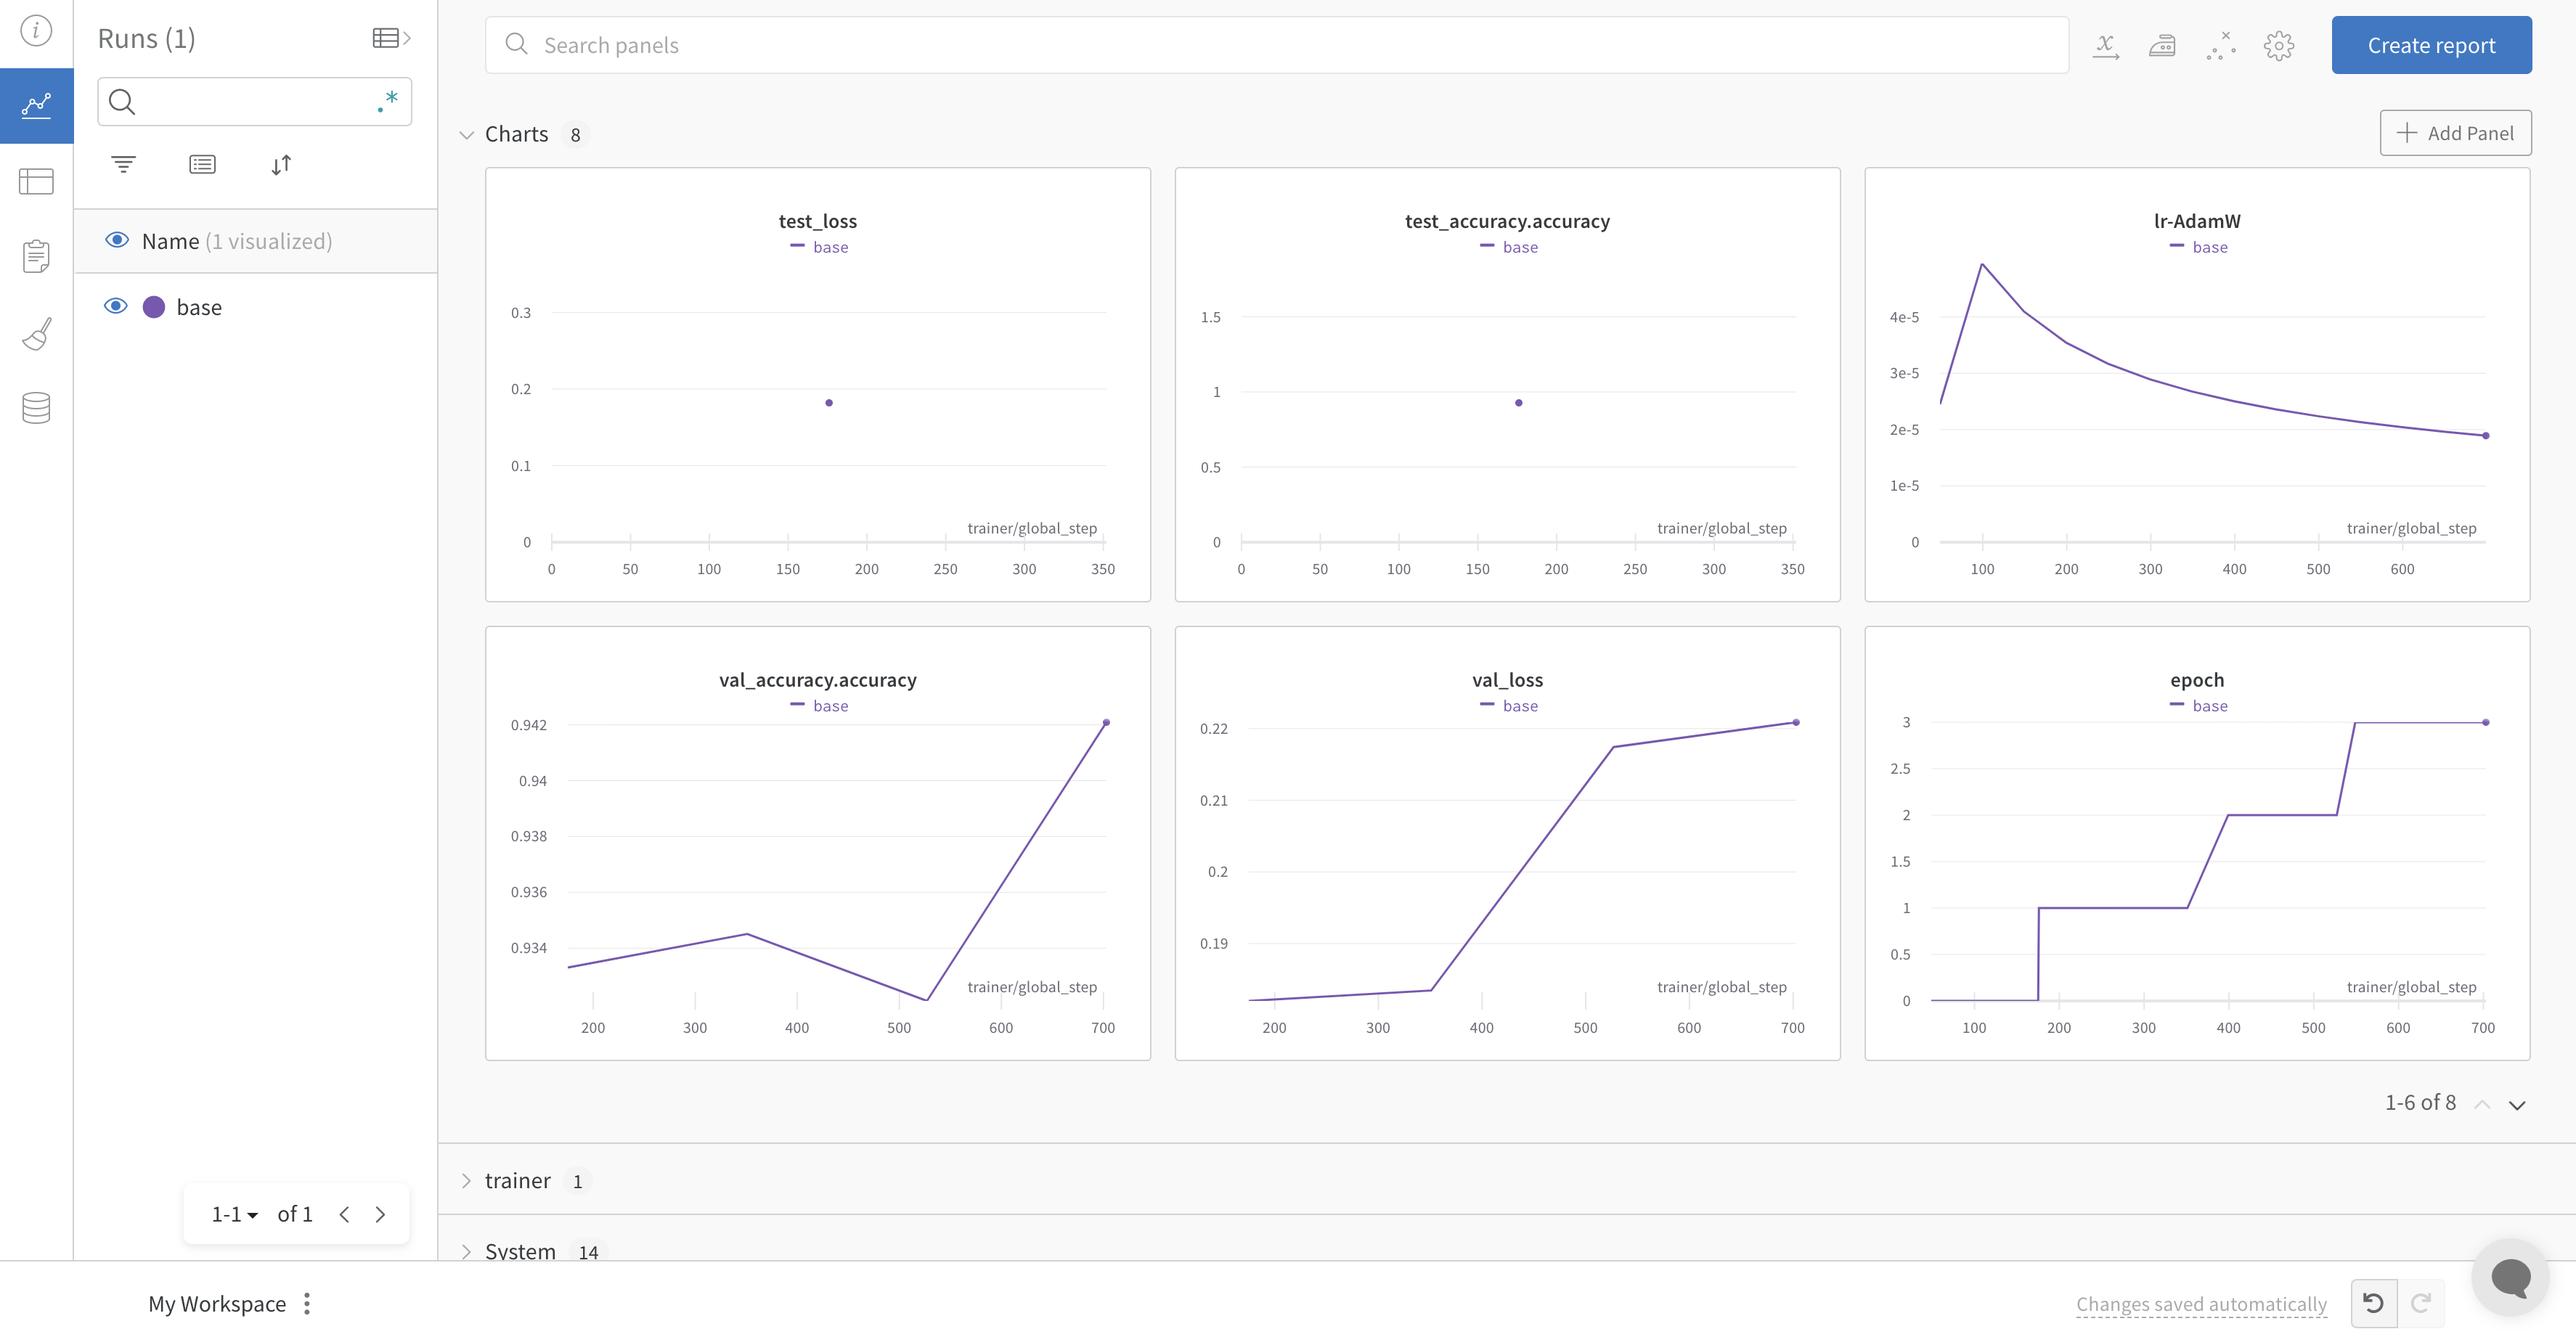
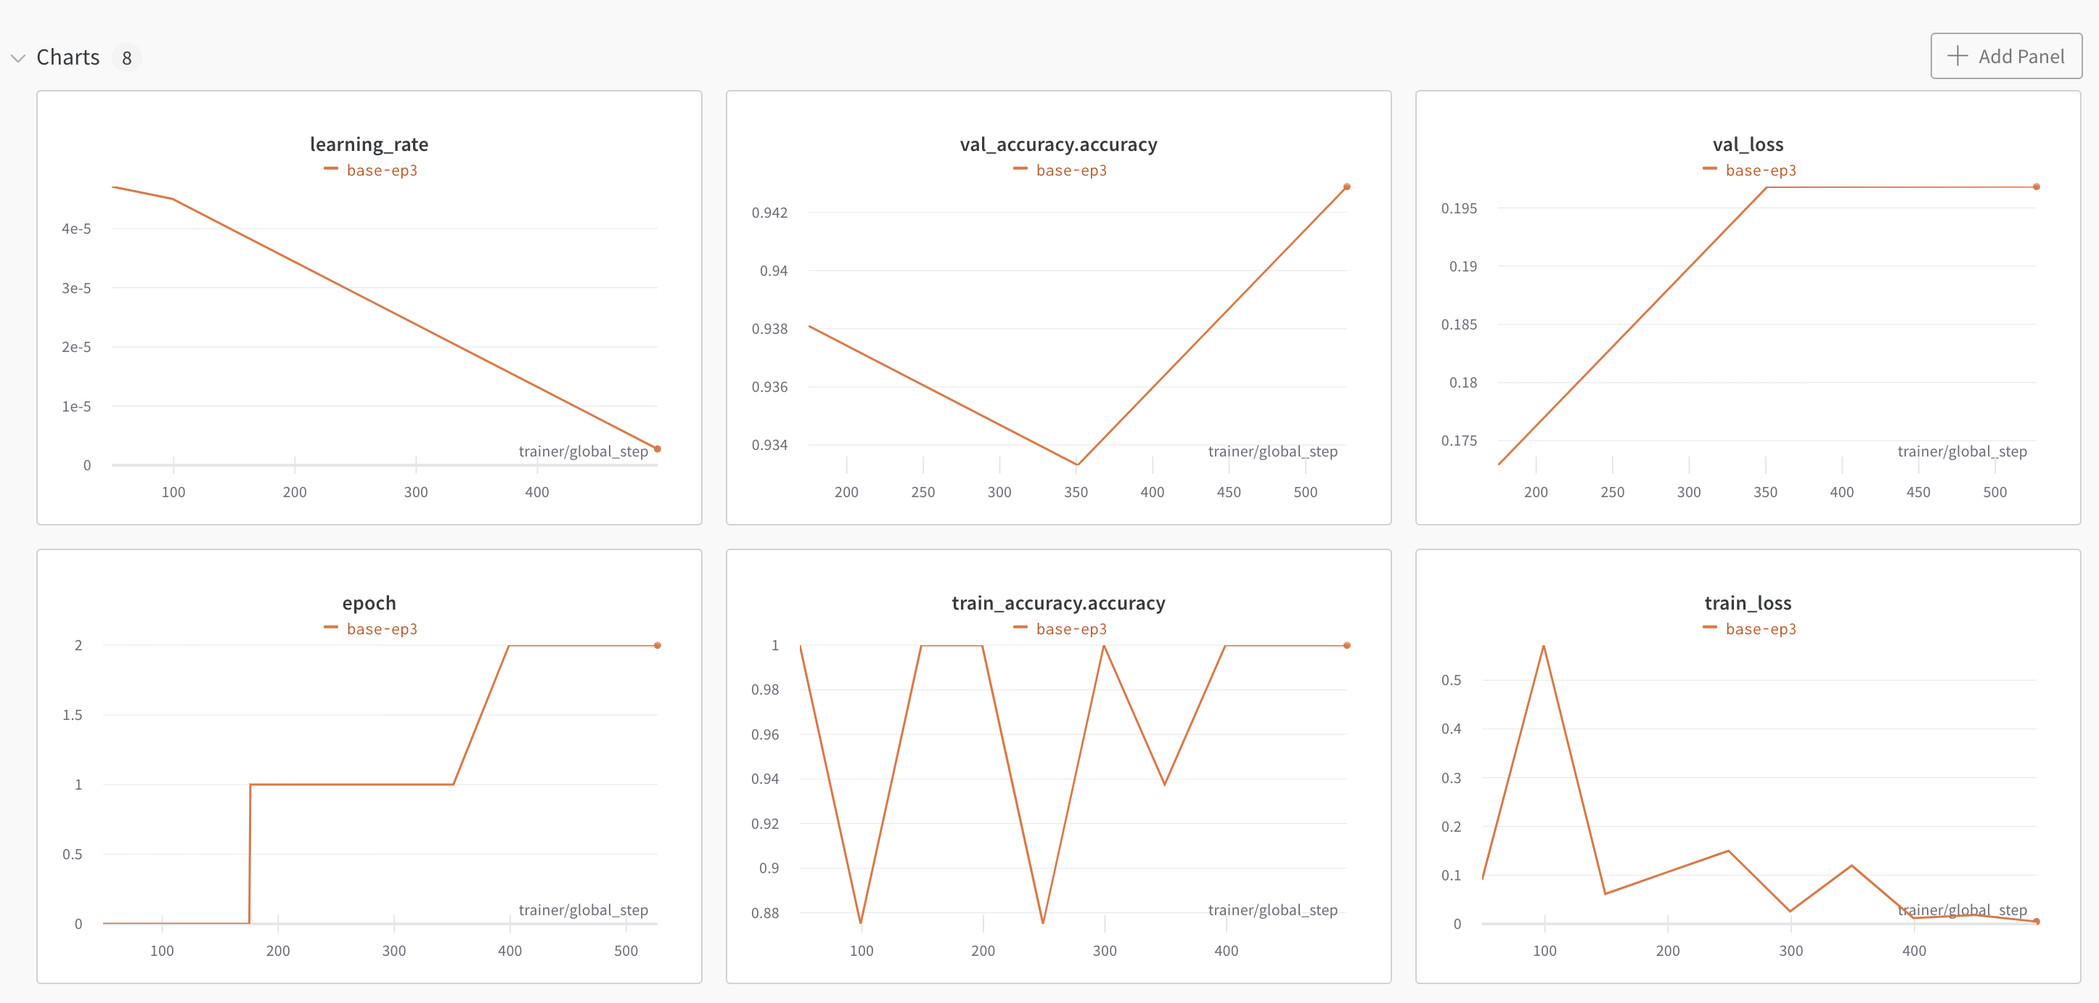
apply get_linear_schedule_with_warmup scheduler

diff --git a/src/model.py b/src/model.py
@@ -1,7 +1,8 @@
 import torch
 from datasets import load_metric
 from pytorch_lightning import LightningModule
-from transformers import AdamW, BertForSequenceClassification
+from torch.optim import AdamW
+from transformers import BertForSequenceClassification, get_linear_schedule_with_warmup
 
 
 class BaseModel(LightningModule):
@@ -18,22 +19,28 @@ class BaseModel(LightningModule):
 
     def configure_optimizers(self):
         # optimizer
-        optimizer = AdamW(
-            self.parameters(), lr=float(self.cfg["TRAIN"]["LR"]["lr_max"])
+        optimizer = AdamW(self.parameters(), lr=float(self.cfg["TRAIN"]["lr"]))
+
+        # scheduler with warmup
+        num_devices = (
+            torch.cuda.device_count()
+            if self.trainer.devices == -1
+            else int(self.trainer.devices)
         )
-
-        # noam lr scheduler
-        def warm_decay(step):
-            warmup_steps = self.cfg["TRAIN"]["warmup_steps"]
-            if step < warmup_steps:
-                return step / warmup_steps
-            return self.cfg["TRAIN"]["LR"]["lr_lambda"] ** step
-
+        total_steps = (
+            len(self.trainer.datamodule.train_dataloader())
+            // self.cfg["TRAIN"]["accumulate_grad_batches"]
+            // num_devices
+            * self.cfg["TRAIN"]["epoch"]
+        )
+        warmup_steps = int(total_steps * self.cfg["TRAIN"]["warmup_ratio"])
         scheduler = {
-            "scheduler": torch.optim.lr_scheduler.LambdaLR(optimizer, warm_decay),
+            "scheduler": get_linear_schedule_with_warmup(
+                optimizer, num_warmup_steps=warmup_steps, num_training_steps=total_steps
+            ),
             "interval": "step",  # runs per batch rather than per epoch
             "frequency": 1,
-            # "name" : "learning_rate" # uncomment if using LearningRateMonitor
+            "name": "learning_rate",
         }
 
         return [optimizer], [scheduler]

diff --git a/README.md b/README.md
@@ -39,7 +39,7 @@ $ sh run.sh
 ### 3.1. Model Performance
 |           Task           | Dataset | Model | Test Accuracy |
 | :----------------------: | :-----: | :---: | :-----------: |
-| Sentiment Classification |  IMDB   | BERT-base  |      92.75%      |
+| Sentiment Classification |  IMDB   | BERT-base  |      93.52%      |
 
 ### 3.2. WandB Logging Results
 ![logging](assets/logging.png)
